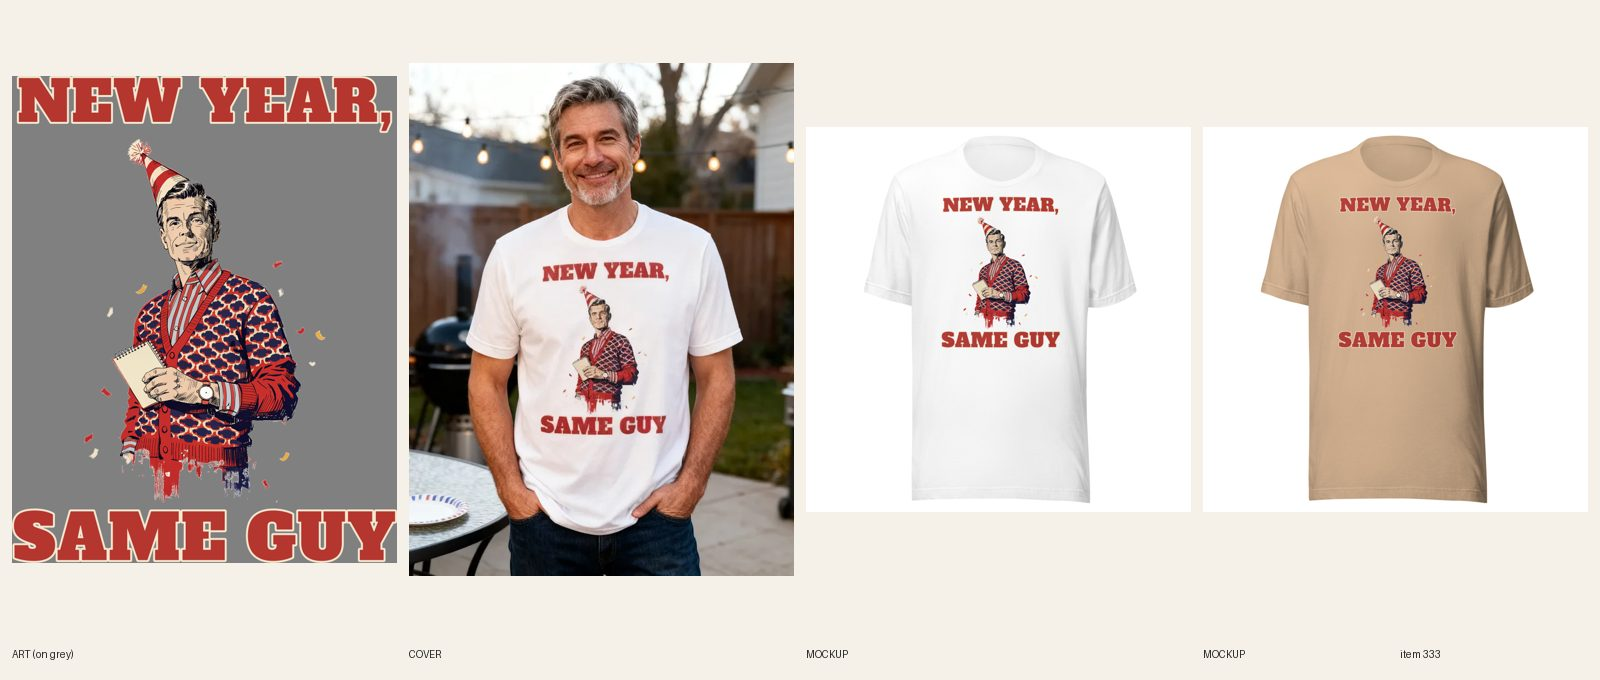
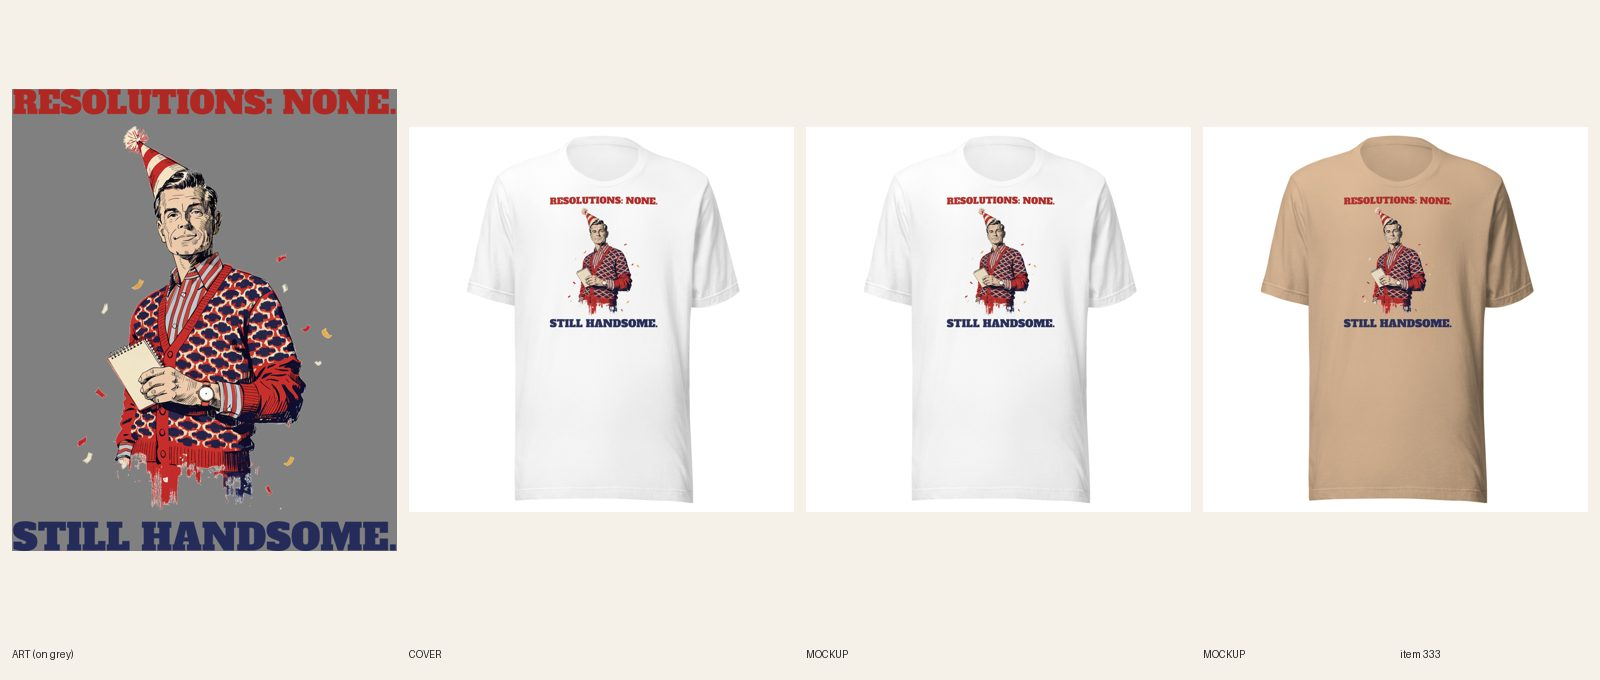
[A] review 333 Resolutions None tee (line+type redo)
Claude-Session: https://claude.ai/code/session_01LaaEYpKaSBZd9opL7Tpo7i

Changed region(s): [[0.0, 0.0926, 0.5, 0.8647], [0.8125, 0.2779, 0.9062, 0.525], [0.5938, 0.2779, 0.6562, 0.525]]

diff --git a/docs/pipeline/333-nye-new-year-same-guy.md b/docs/pipeline/333-nye-new-year-same-guy.md
@@ -1,4 +1,4 @@
-status: BUILDING [A] 2026-10-20 06:11 UTC
+status: REVIEW
 lane: A
 type: new
 id: 333
@@ -30,3 +30,4 @@ kd: 35
 - 2026-10-18 01:19 UTC builder [A]: BUILT. Art: 2 Recraft calls ($0.08; first full-body try read clownish, second waist-up 1950s ad-man kept; picture only, no lettering). NEW YEAR, / SAME GUY set in Alfa Slab One (real font, R4.8) in faded red with a cream keyline. Print 3157x3991, Printful file 1088600339, FW 1650, 42/42 variants linked, back logo kept. Shopify DRAFT (gid 15363028943152, BC 3001, White/Natural/Ash/Athletic Heather/Heather Dust/Tan x S-4XL, $24.99 no compare-at): copy re-checked against the real art (cardigan, striped party hat, notepad, red slab capitals), FAQs 5 x 49-50 words incl. order-by Dec 20, SEO within limits. Mockups: 6 colors + back, each color's variants on its own photo; phone-size read OK on all six. Cover reg #522 (seedream 1 attempt, white-tee mockup as --design; light stubble, no glasses on head, logged): both lines read, hands in pockets, nothing over the print. fal ~$0.14. Audit script not runnable on drafts here; astro build passes.
 - 2026-10-18 01:21 UTC director: LIVE. Deadpan 1950s ad-man reads in 2 seconds, backyard cover fits. ACTIVE + Online Store/Headless/Google & YouTube, audit PASS 0 warn.
 - 2026-10-18 17:22 UTC director: QUALITY RESET grade C (new line + type), REDO. The product stays ACTIVE (same handle, URL, title keyword). 1. Line (R3.12, quality-reset 'Lines'): "NEW YEAR, / SAME GUY": Cliche "new year same me" riff; type fine but line flat. Write 5 candidates, keep the one a stranger laughs at in 3 seconds without backstory; kill lines that only describe the picture; if none of the 5 is funny, PARK it. 2. Quality reset type bar (docs/backlog/quality-reset.md, 'The new bar'): headline at least 90% of the art width, heavy, colors pulled from the art; second line at least 45% of the headline's height, never a thin script on a dark or mid garment; use the lettering as a shape (arch, stacked lockup, words breaking into the art), not a plain bar above and a script line below; no font used on more than 1 in 6 of the last 30 designs. 3. Keep the art if it carries the new line, else one new illustration (R4/R5). New print means a new cover per R6.10, copy line one rewritten for the new joke (R8.3), and a fresh review sheet (R7.7). While quality-reset.md says PAUSED, only lane A builds, and only the samples step 2 names.
+- 2026-10-20 06:48 UTC builder [A]: REDO grade C done (new line; type was already heavy). Line: RESOLUTIONS: NONE. / STILL HANDSOME. (5 candidates; the smug ad-man deadpan kept; title and handle unchanged). Same 1950s ad-man art (old two lines cropped off, 3157x3020), Alfa Slab One both lines at full print width (3276 / 3281 px), red + navy from the cardigan, lockup 3300x3960, FW 1500 TOP 75. One dark-ink file on all six light colors (no cream fill): 1090204031. Back logo 1080398177 kept. Relinked 42/42 verified. 6 fronts replaced in place (fileUpdate, alts updated), phone-size read ok. Copy: Story line one, lettering sentence, color FAQ updated; SEO title/meta updated; 5 FAQs, Dec 20 order-by kept; no R8.3 opener. Cover: handle added to retired-covers.json (plain product shot). fal $0. audit --handle PASS; astro build ok. Sheet docs/review/333.jpg.

diff --git a/docs/intake-log.md b/docs/intake-log.md
@@ -12,6 +12,7 @@ RUNNING helper since 2026-10-20 05:44 UTC
 2026-10-20 06:55 UTC — [D] Director run: inbox nothing new. 6 LIVE (cap): #358 #650 #221 #237 #246 #251, audit PASS. Reviewed 25 redos: 19 approved and held (5 stale titles fixed), 6 REDO (#341 #354 #436 #506 #536 #621). Builder card 7h sharpened (height never makes up for punch width). New lane B brief #716 farming shirt (5,400 / KD 33). No Telegram (digest not due, nothing needs Sam). Lock released.
 2026-10-20 06:20 UTC — [E] Builder run: redid #472 Unisex Embroidered crewneck (line + type: CIRCLE / BACK / NEVER., twin of #473 hoodie, Sand navy thread + Navy white thread, 12/12 synced). REVIEW. fal $0.
 2026-10-20 06:27 UTC — [B] Builder run: redid #492 Women's Nurse embroidered crewneck (line + type: AWAKE. / REGRETTABLY., same goose line art, Anton in navy thread, 12/12 synced; ink widths 1000/1000 px). REVIEW. fal $0.
+2026-10-20 06:48 UTC — [A] Builder run: redid #333 Men's New Year Same Guy tee (line+type: RESOLUTIONS: NONE. / STILL HANDSOME., same ad-man art, Alfa Slab full width, file 1090204031, 42/42 relinked, 6 fronts replaced in place, copy updated, plain product shot). REVIEW. fal $0.
 2026-10-20 06:11 UTC — [A] Builder run: redid #332 Women's NYE Resolutions Pending tee (line+type: NEW YEAR, NEW ME. / STARTING JAN 2., same disco ball art, Bevan full width, file 1090193042, 30/30 relinked, 5 fronts replaced in place, copy updated, plain product shot). REVIEW. fal $0.
 2026-10-20 06:47 UTC — [B] Builder run: redid #469 round 2 (NEW LINE BUSY AT A / GOOD PART. (5 candidates: BUSY AT A / GOOD PART.; Excused From Small Talk (old, mild statement); Booked Through January; One More Chapter, Then Christmas; Do Not Disturb, Reading). Kept the first: the reader at the family party, a stranger gets it in 3 seconds, the book tree proves it. Same book-stack tree (cropped above the old words), new Oswald 700 lettering only, no fal $0; emb-prep 3.33 x 3.78 in, thinnest stroke 1.52 mm, capitals about 0.5 in tall. Thread Sand #CC3333 red, Navy #FFFFFF white (red sank on Navy). Cover: handle added to retired-covers.json. Title, SEO, copy, FAQs, alts rewritten. headline BUSY AT A 1000 px / punch GOOD PART. 1000 px (equal width, embroidery file)). REVIEW. fal $0.
 2026-10-20 06:46 UTC — [B] Builder run: redid #513 round 2 (SEE YOU / IN APRIL., punch scaled to the headline's full width (Big Shoulders 900, Sand + Sport Grey one dark-ink file). headline 3240 px / punch 3240 px). REVIEW. fal $0.
